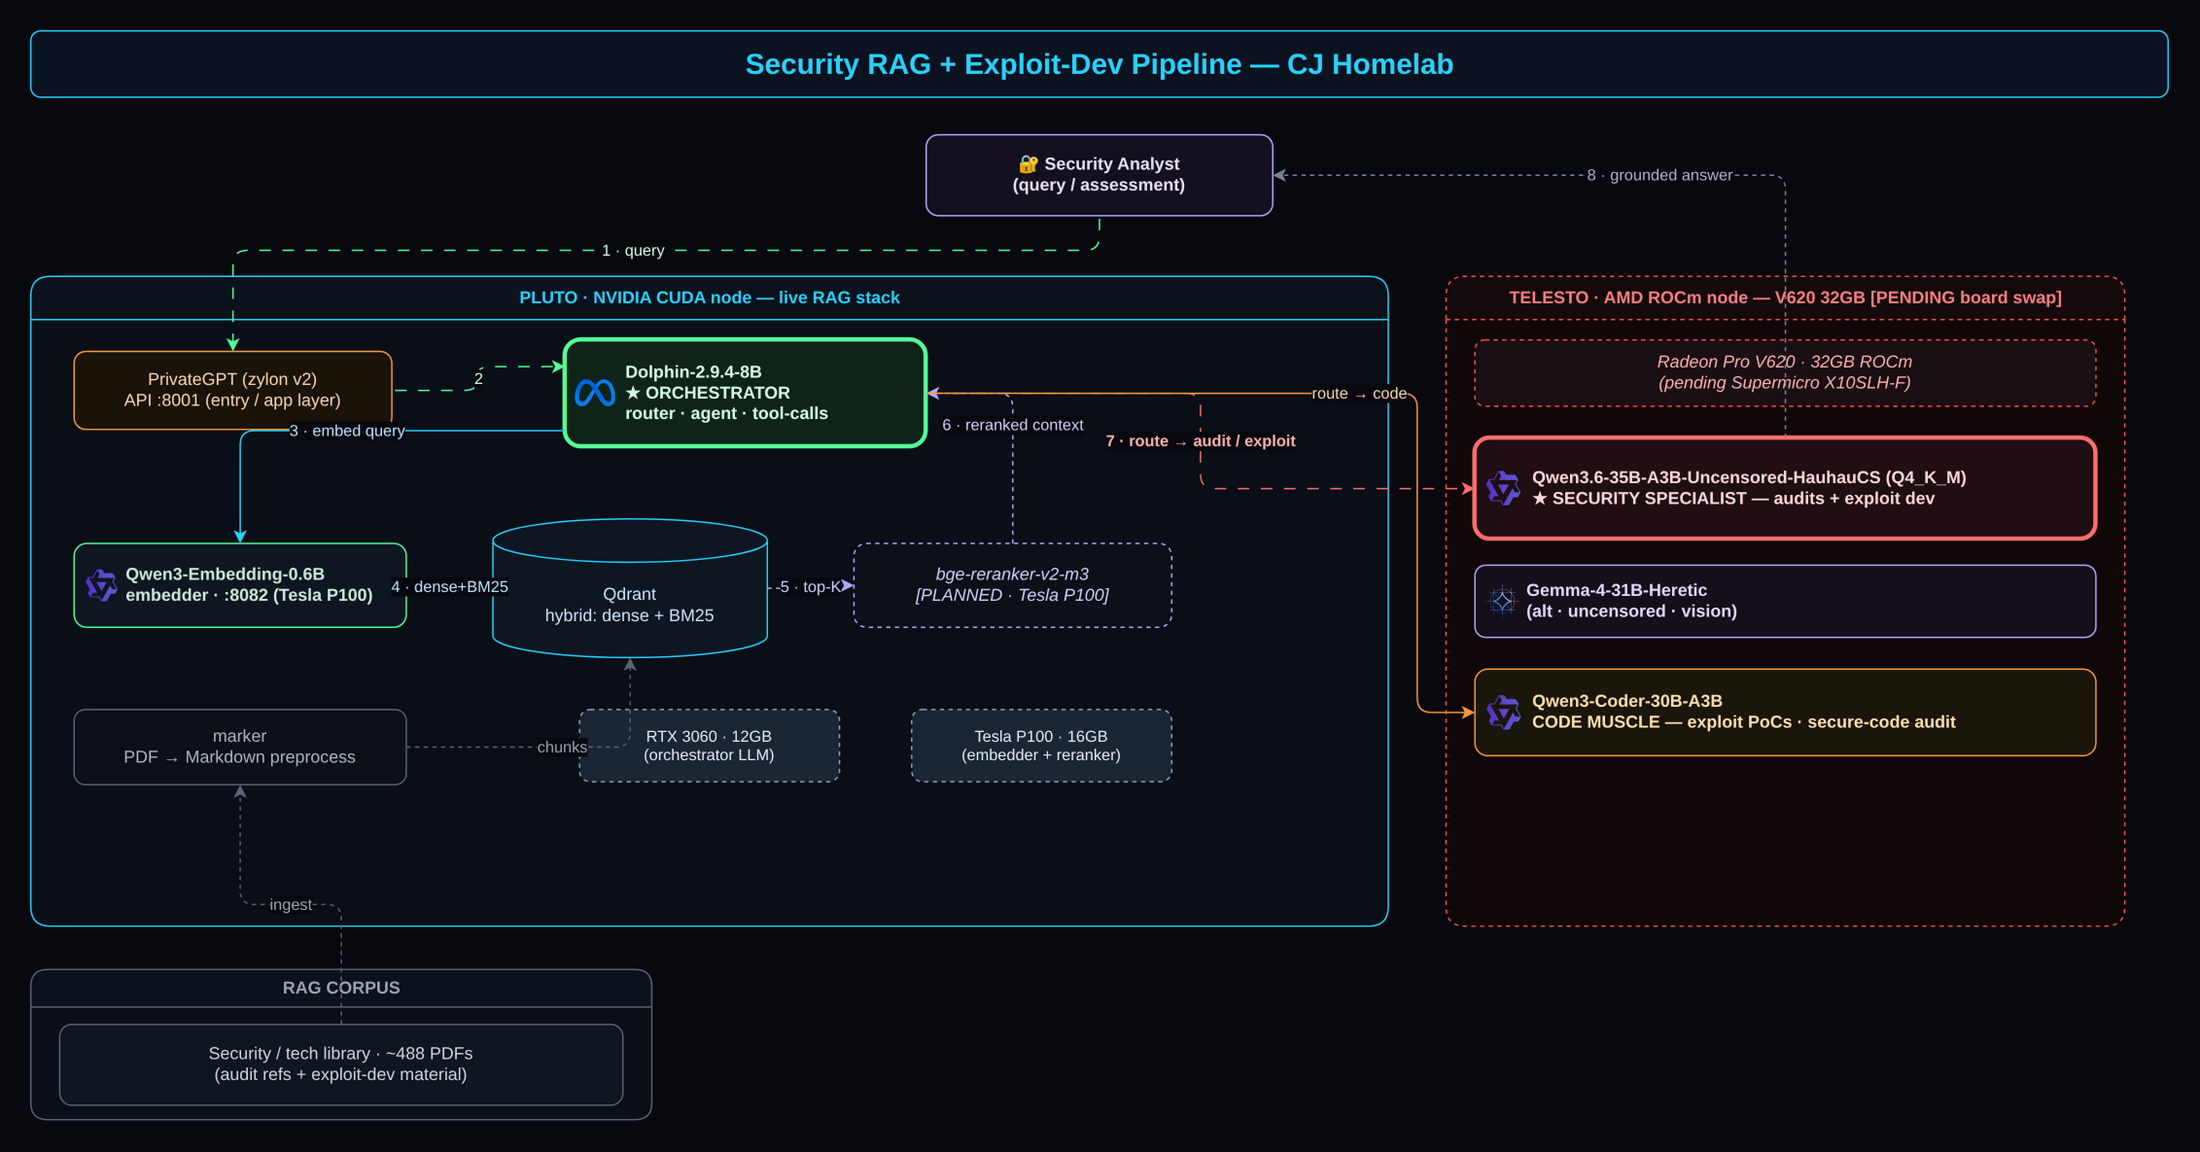
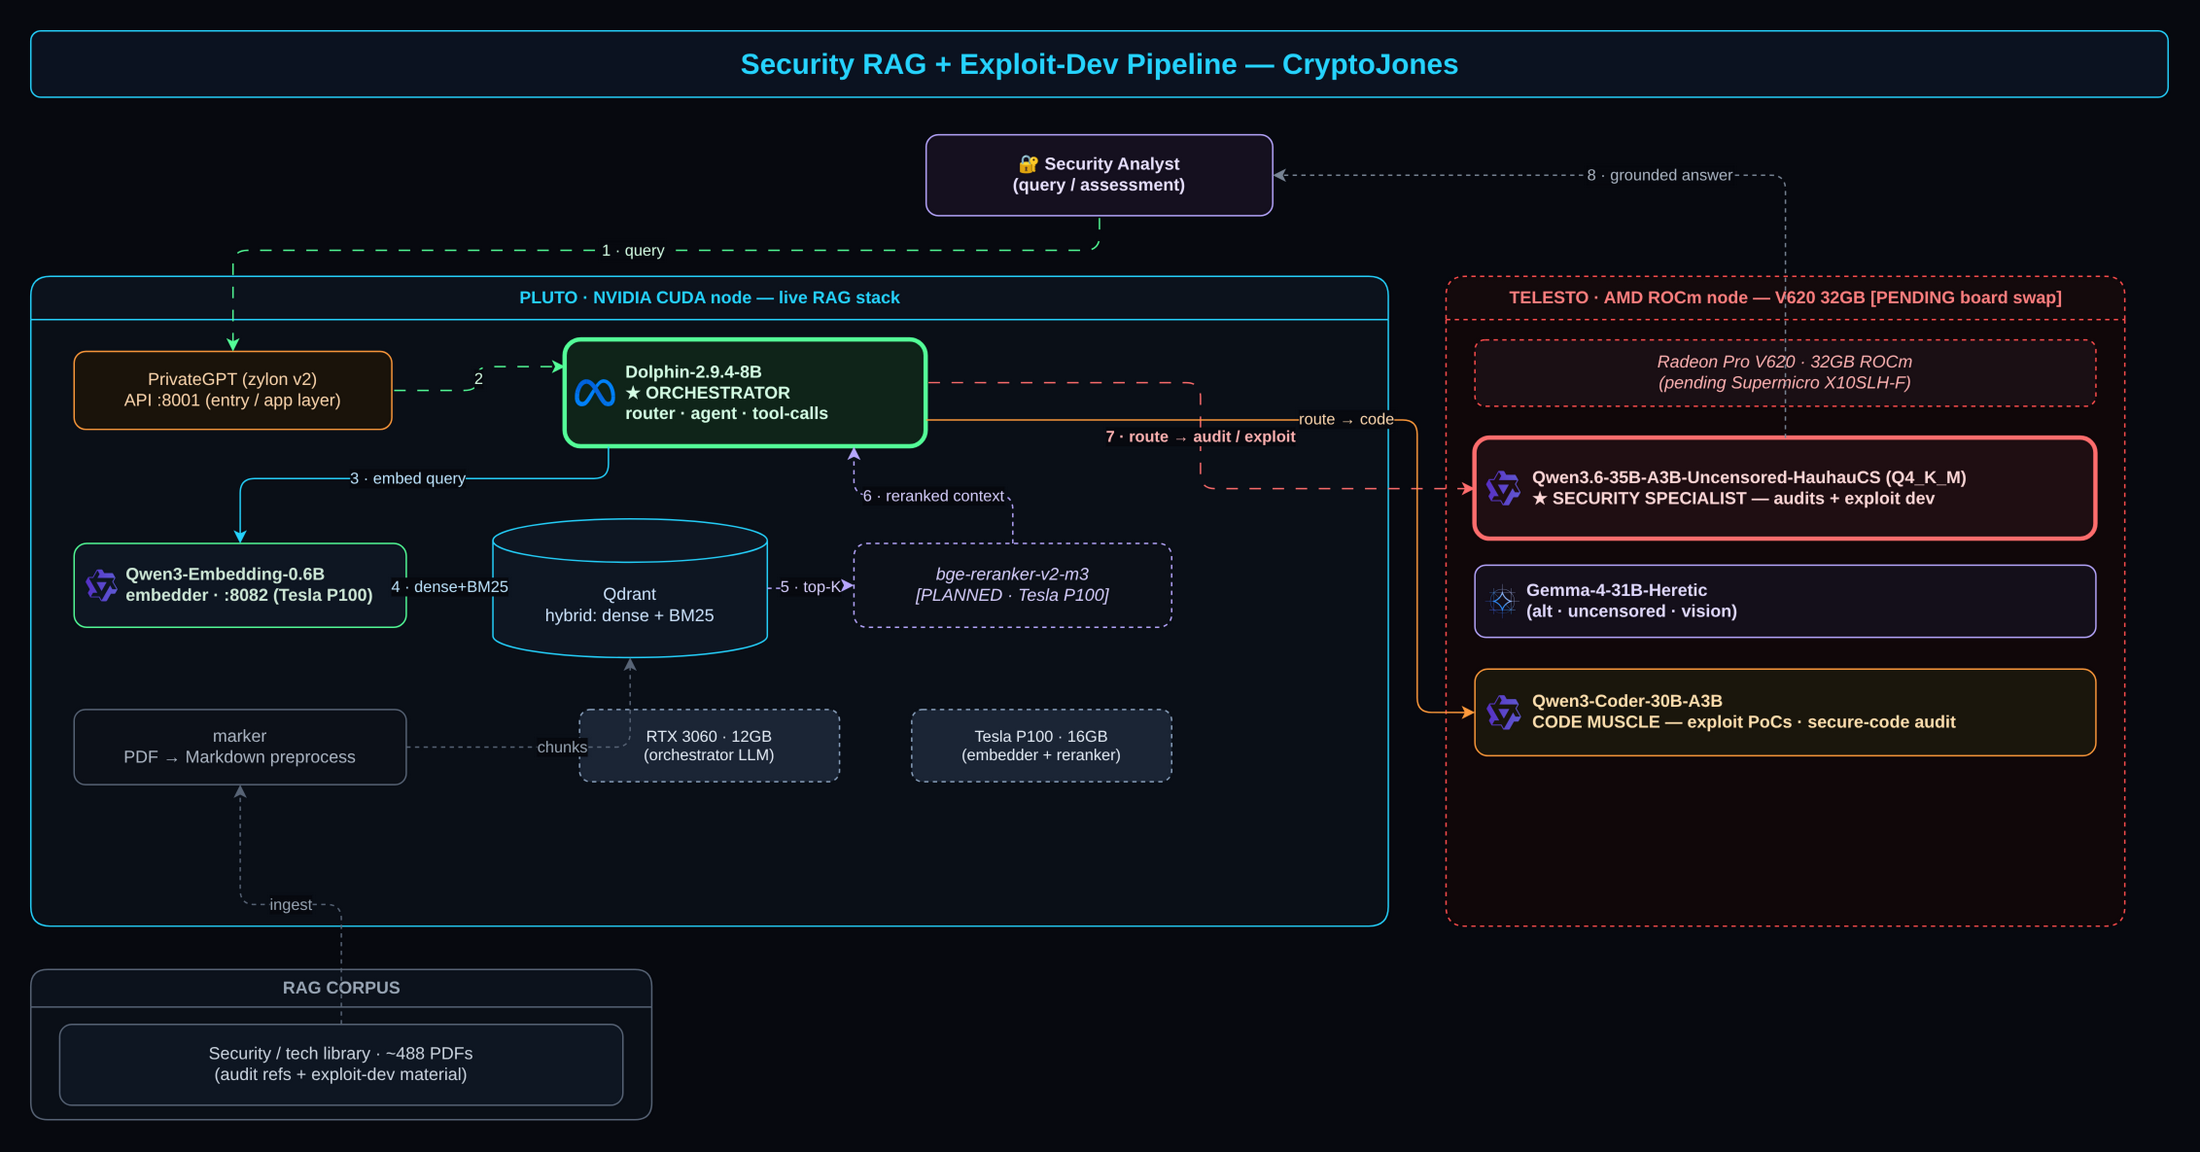
diagram: route fixes (embed-query, dolphin right-side), title→CryptoJones; click image for full size

diff --git a/fleet-local-inference-plan.html b/fleet-local-inference-plan.html
@@ -47,7 +47,7 @@
   <p class="sub">A fully self-hosted, GPU-split retrieval-augmented-generation stack built for security assessments and exploit development — no cloud, no API keys leaving the LAN. A small uncensored model orchestrates; a heavyweight specialist does the audit/exploit work; a hybrid vector store grounds everything in a private security library.</p>
 
   <figure class="fig">
-    <img src="images/security-rag-pipeline.png" alt="Security RAG + Exploit-Dev pipeline architecture diagram">
+    <a href="images/security-rag-pipeline.png" target="_blank" rel="noopener" title="Open full-size"><img src="images/security-rag-pipeline.png" alt="Security RAG + Exploit-Dev pipeline architecture diagram"></a>
     <figcaption>End-to-end architecture across the homelab fleet — query &rarr; orchestrator &rarr; hybrid retrieval &rarr; specialist model &rarr; grounded answer.</figcaption>
   </figure>
 
